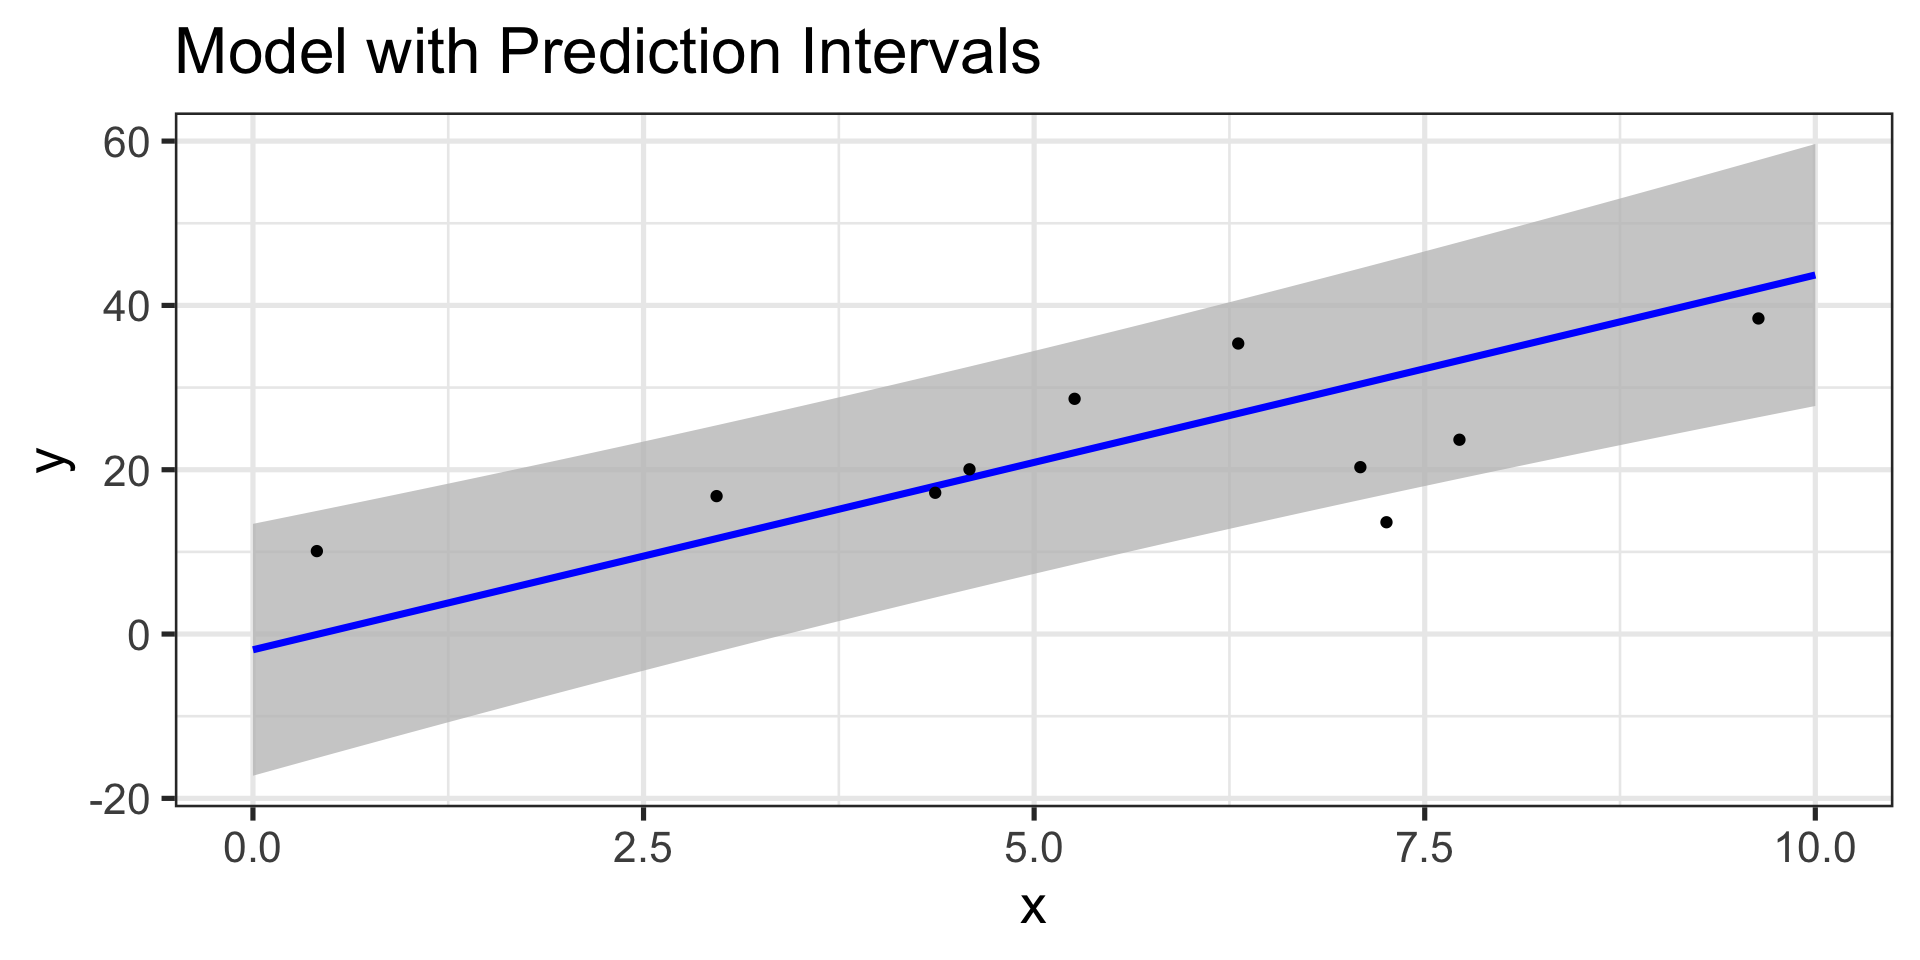
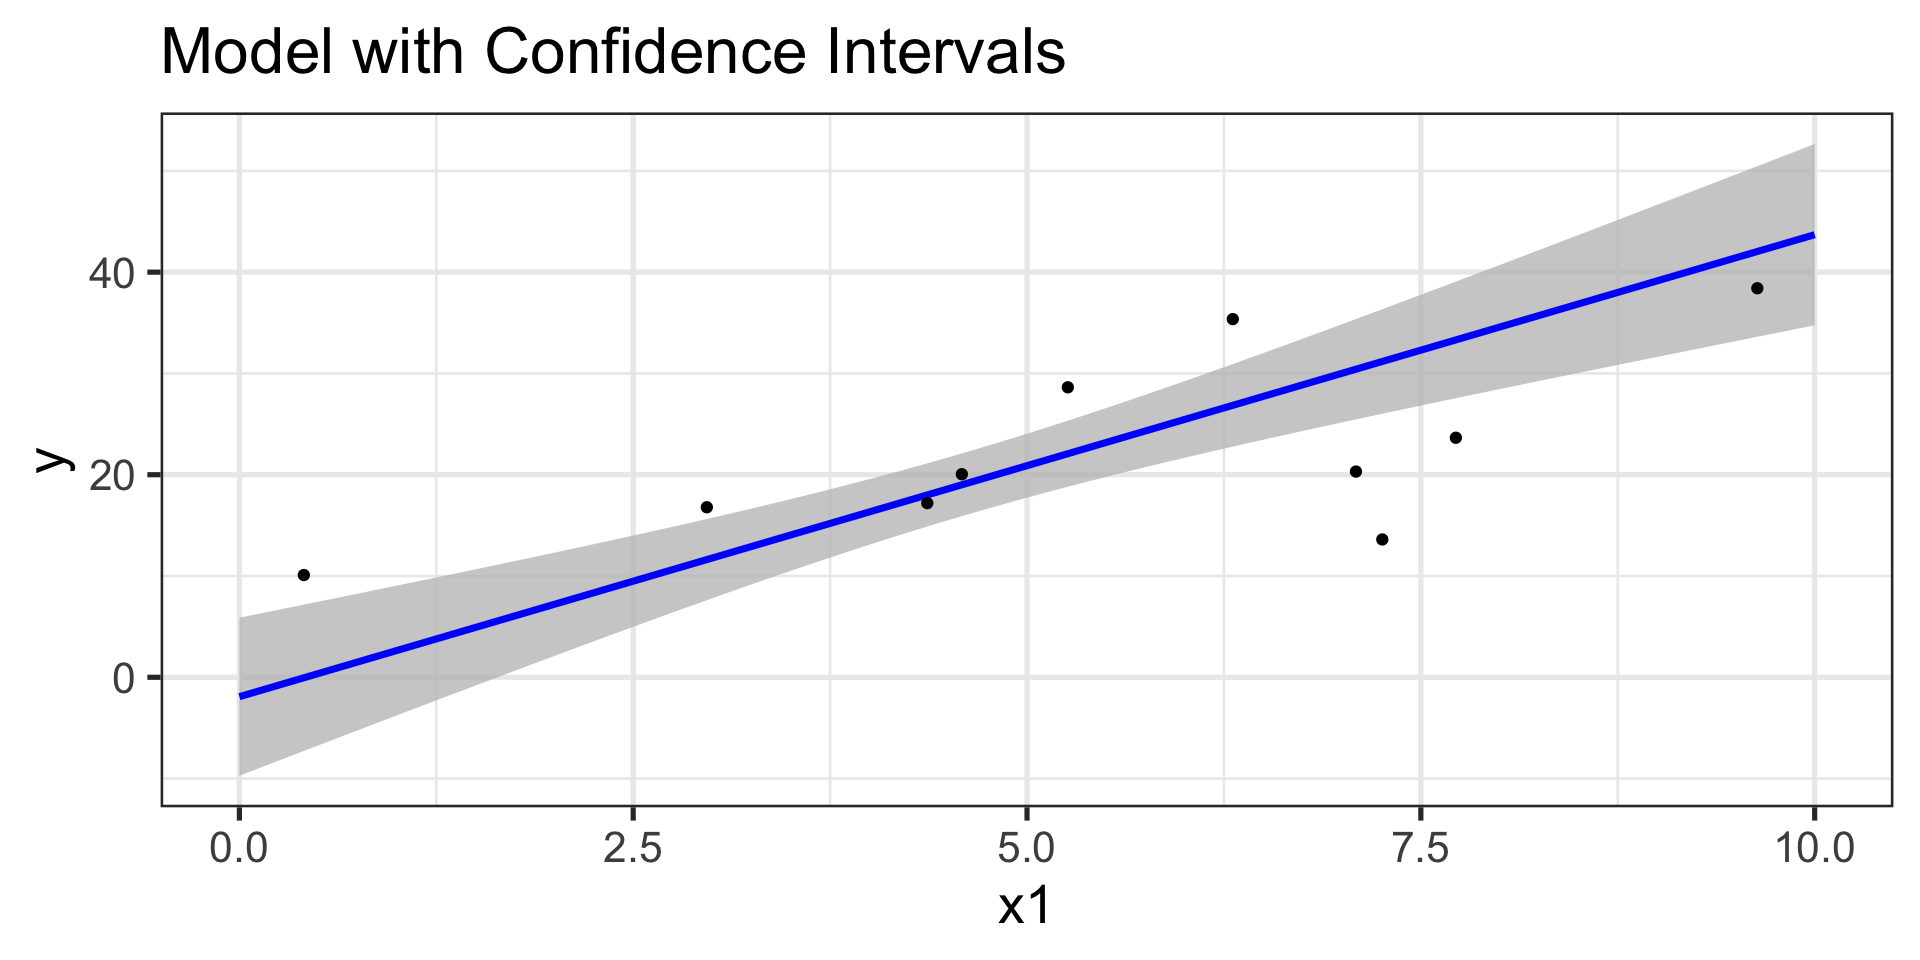
More explanation of intervals

diff --git a/8d_IntroSlides.html b/8d_IntroSlides.html
@@ -11,7 +11,7 @@
   <meta name="generator" content="quarto-1.5.43">
 
   <meta name="author" content="Dr.&nbsp;Gilbert">
-  <meta name="dcterms.date" content="2024-08-13">
+  <meta name="dcterms.date" content="2024-08-26">
   <title>Statistical Inference in Regression</title>
   <meta name="apple-mobile-web-app-capable" content="yes">
   <meta name="apple-mobile-web-app-status-bar-style" content="black-translucent">
@@ -404,7 +404,7 @@ Dr.&nbsp;Gilbert
 </div>
 </div>
 
-  <p class="date">August 13, 2024</p>
+  <p class="date">August 26, 2024</p>
 </section>
 <section class="slide level2">
 
@@ -493,13 +493,29 @@ H_a &amp; : &amp; \text{At least one } \beta_i \text{ is non-zero}\end{array}\]<
 <h2>Global Test for Model Utility in Pictures</h2>
 <p><span class="math display">\[\begin{array}{lcl} H_0 &amp; : &amp; \beta_1 = \beta_2 = \cdots = \beta_k = 0\\
 H_a &amp; : &amp; \text{At least one } \beta_i \text{ is non-zero}\end{array}\]</span></p>
-
-<img data-src="8d_IntroSlides_files/figure-revealjs/unnamed-chunk-4-1.png" class="quarto-figure quarto-figure-center r-stretch" width="960"><div class="fragment">
-<p>Are our <em>sloped</em> lines better models than the horizontal line?</p>
+<div class="fragment">
+<div class="columns">
+<div class="column" style="width:50%;">
+<div class="cell" data-layout-align="center">
+<div class="cell-output-display">
+<div class="quarto-figure quarto-figure-center">
+<figure>
+<p><img data-src="8d_IntroSlides_files/figure-revealjs/unnamed-chunk-4-1.png" class="quarto-figure quarto-figure-center" width="960"></p>
+</figure>
+</div>
+</div>
+</div>
+</div><div class="column" style="width:50%;">
+<p>Are our <em>sloped</em> models better (more justifiable) models than the horizontal line?</p>
 <ul>
-<li class="fragment"><em>Sloped</em> lines use predictor information</li>
-<li class="fragment">Horizontal line just predicts mean response</li>
+<li class="fragment"><p><em>Sloped</em> models use predictor information</p></li>
+<li class="fragment"><p>Horizontal models just predict average response, ignoring all observation-specific features</p>
+<ul>
+<li class="fragment">They assume that having information about features of an observation gives no advantage in predicting its response</li>
+</ul></li>
 </ul>
+</div>
+</div>
 </div>
 </section>
 <section id="tests-on-individual-model-terms" class="slide level2">
@@ -608,14 +624,38 @@ H_a &amp; : &amp; \beta_i \neq 0\end{array}\]</span></p>
 <p>Are these wrong too?</p>
 </div>
 </section>
+<section id="confidence-intervals-predictions-1" class="slide level2">
+<h2>Confidence Intervals (Predictions)</h2>
+<p>The formula for confidence intervals on predictions is complex!</p>
+<p><span class="math display">\[\displaystyle{\left(\tt{point~estimate}\right)\pm t^*_{\text{df}}\cdot \left(\tt{RMSE}\right)\left(\sqrt{\frac{1}{n} + \frac{(x_{new} - \bar{x})^2}{\sum{\left(x - \bar{x}\right)^2}}}\right)}\]</span></p>
+<p>We’ll use R to construct these intervals for us.</p>
+
+<img data-src="8d_IntroSlides_files/figure-revealjs/unnamed-chunk-10-1.png" class="quarto-figure quarto-figure-center r-stretch" width="960"><p>Are these wrong too? No – confidence intervals bound the <em>average response</em> over all observations having given input features.</p>
+</section>
 <section id="prediction-intervals" class="slide level2">
 <h2>Prediction Intervals</h2>
-
-<img data-src="8d_IntroSlides_files/figure-revealjs/unnamed-chunk-10-1.png" width="960" class="r-stretch"></section>
+<div class="fragment">
+<p>So, can we build intervals which contain predictions on the level of an individual observation?</p>
+</div>
+<div class="fragment">
+<p>Sure – but there’s added uncertainty in making those types of predictions</p>
+</div>
+<div class="fragment">
+<div class="cell">
+<div class="cell-output-display">
+<div>
+<figure>
+<p><img data-src="8d_IntroSlides_files/figure-revealjs/unnamed-chunk-11-1.png" width="960"></p>
+</figure>
+</div>
+</div>
+</div>
+</div>
+</section>
 <section id="confidence-and-prediction-intervals-for-model-predictions" class="slide level2">
 <h2>Confidence and Prediction Intervals for Model Predictions</h2>
 
-<img data-src="8d_IntroSlides_files/figure-revealjs/unnamed-chunk-11-1.png" width="960" class="r-stretch"></section>
+<img data-src="8d_IntroSlides_files/figure-revealjs/unnamed-chunk-12-1.png" width="960" class="r-stretch"></section>
 <section id="summary" class="slide level2">
 <h2>Summary</h2>
 <p>Below are the most common applications of statistical inference in regression modeling.</p>
@@ -638,6 +678,18 @@ H_a &amp; : &amp; \beta_i \neq 0\end{array}\]</span></p>
 </ul></li>
 </ul></li>
 </ul>
+<div class="fragment">
+<p>We’ll be utilizing all of these ideas throughout our course.</p>
+</div>
+<div class="fragment">
+<p>We’ll leverage R functionality to obtain intervals or to calculate test statistics and <span class="math inline">\(p\)</span>-values though, since it is much faster than doing any of this by hand.</p>
+</div>
+</section>
+<section id="next-time" class="slide level2">
+<h2>Next Time…</h2>
+<center>
+<p><font size="120pt"> Hypothesizing, Constructing, Assessing, and Interpreting Simple Linear Regression Models </font></p>
+</center>
 <div class="quarto-auto-generated-content">
 <div class="footer footer-default">
 
